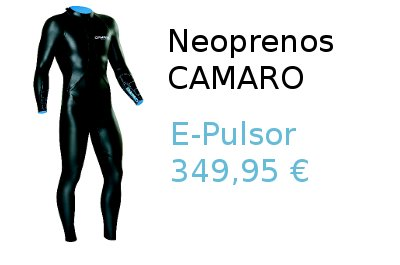
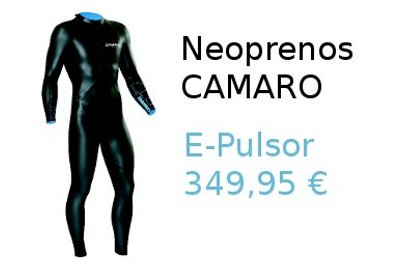
customized slider, placed it up-right

Changed region(s): [[0.06, 0.0, 0.39, 0.9358], [0.42, 0.0906, 0.9, 0.3623], [0.42, 0.4528, 0.84, 0.7245]]

diff --git a/public/stylesheets/besti.css b/public/stylesheets/besti.css
@@ -22,8 +22,8 @@ height:280px;
 #present{
   border-right:#ccc solid 1px;
   font-size: 1.0em;
-	width: 400px;
-	height:265px;
+	width: 950px;
+	height:120px;
   background:#eee;
   padding:4px;
   float:left;
@@ -52,8 +52,8 @@ height:280px;
 	border-left:4px solid black;
 }
 
-#present-right{
-  margin-left:15px;
+#present-buttons{
+  margin-right:15px;
   height:275px;
   float:left;
 	/*background:#b3ef7d;*/
@@ -66,8 +66,9 @@ height:280px;
 
 #present-slider{
   background:#414141;
-	width:400;
-	height:265px;
+  float:right;
+	width:400px;
+	height:275px;
   -moz-box-shadow: 5px 5px 10px #888888; /* Firefox 3.6 and earlier */
   -webkit-box-shadow: 5px 5px 10px #888888; /* Safari */
   box-shadow: 5px 5px 10px #888888;

diff --git a/public/stylesheets/nivo-slider/styles.css b/public/stylesheets/nivo-slider/styles.css
@@ -10,7 +10,8 @@ Author URI: http://dev7studios.com
 
 .theme-default .nivoSlider {
 	position:relative;
-	background:#fff url(loading.gif) no-repeat 50% 50%;
+	/*background:#fff url(loading.gif) no-repeat 50% 50%;*/
+	background:#fff url(loading.gif) no-repeat;
     -webkit-box-shadow: 0px 1px 5px 0px #4a4a4a;
     -moz-box-shadow: 0px 1px 5px 0px #4a4a4a;
     box-shadow: 0px 1px 5px 0px #4a4a4a;

diff --git a/public/stylesheets/nivo-slider/nivo-slider.css b/public/stylesheets/nivo-slider/nivo-slider.css
@@ -90,8 +90,8 @@
 }
 #slider {
     position:relative;
-    width:500px; /* Change this to your images width */
-    height:240px; /* Change this to your images height */
+    width:400px; /* Change this to your images width */
+    height:265px; /* Change this to your images height */
     background:url(/stylesheets/nivo-slider/loading.gif) no-repeat 50% 50%;
 }
 #slider img {
